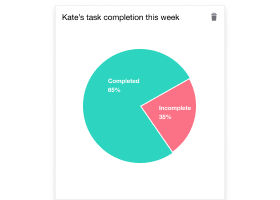
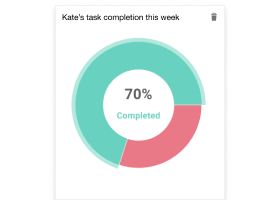
fix(web-client): making dashboard pie chart readable
making the dashboard pie chart more readable

re #78

Changed region(s): [[0.2286, 0.18, 0.7429, 0.84]]

diff --git a/web-client/src/shared/components/Dashboard/widgets/MyTasksCompletionChart.tsx b/web-client/src/shared/components/Dashboard/widgets/MyTasksCompletionChart.tsx
@@ -1,6 +1,6 @@
 import React from "react";
 
-import { PieChart, Pie, Cell, ResponsiveContainer, PieLabelRenderProps } from "recharts";
+import { PieChart, Pie, Cell, ResponsiveContainer, PieLabelRenderProps, Sector } from "recharts";
 
 import Box from "@mui/material/Box";
 import Typography from "@mui/material/Typography";
@@ -12,32 +12,85 @@ import { MIN_DASHBOARD_WIDGET_HEIGHT } from "../../../../modules/DashboardScreen
 import { PieChartStatistics } from "../../../interfaces/Statistics.interfaces";
 import { parseDynamicParameters } from "../widget.helpers";
 
-const RADIAN = Math.PI / 180;
-const renderCustomizedLabel = (props: PieLabelRenderProps) => {
-  const { cx, cy, midAngle, innerRadius, outerRadius, percent } = props;
+// const RADIAN = Math.PI / 180;
+// const renderCustomizedLabel = (props: PieLabelRenderProps) => {
+//   const { cx, cy, midAngle, innerRadius, outerRadius, percent } = props;
+//   console.log(props);
 
-  if (!Number(percent)) {
-    return <React.Fragment></React.Fragment>;
-  }
+//   if (!Number(percent)) {
+//     return <React.Fragment></React.Fragment>;
+//   }
 
-  const radius = (innerRadius as number) + ((outerRadius as number) - (innerRadius as number)) * 0.5;
+//   const radius = (innerRadius as number) + ((outerRadius as number) - (innerRadius as number)) * 0.5;
 
-  const x = (cx as number) + (radius as number) * Math.cos(-midAngle * RADIAN);
-  const y = (cy as number) + (radius as number) * Math.sin(-midAngle * RADIAN);
+//   const x = (cx as number) + (radius as number) * Math.cos(-midAngle * RADIAN);
+//   const y = (cy as number) + (radius as number) * Math.sin(-midAngle * RADIAN);
+
+//   return (
+//     <Typography
+//       component="text"
+//       x={x}
+//       y={y}
+//       fill={"white"}
+//       fontSize={15}
+//       textAnchor="middle"
+//       dominantBaseline="central"
+//       fontWeight={500}
+//     >
+//       {props?.name} {Number(Number(percent) * 100).toFixed(1)}%
+//     </Typography>
+//   );
+// };
+
+const renderActiveShape = (props: any) => {
+  const { cx, cy, innerRadius, outerRadius, startAngle, endAngle, fill, payload, percent } = props;
 
   return (
-    <Typography
-      component="text"
-      x={x}
-      y={y}
-      fill={"white"}
-      fontSize={15}
-      textAnchor="middle"
-      dominantBaseline="central"
-      fontWeight={500}
-    >
-      {props?.name} {Number(Number(percent) * 100).toFixed(1)}%
-    </Typography>
+    <g>
+      <Typography
+        component="text"
+        x={cx}
+        y={cy - 20}
+        dy={8}
+        textAnchor="middle"
+        fontSize={30}
+        fontWeight={900}
+        fill="#5F5F5F"
+      >
+        {Number(Number(percent ?? 0) * 100).toFixed(0)}%
+      </Typography>
+      <Typography
+        component="text"
+        x={cx}
+        y={cy + 20}
+        dy={8}
+        textAnchor="middle"
+        fontSize={18}
+        fontWeight={600}
+        fill={fill}
+      >
+        {payload.name}
+      </Typography>
+      <Sector
+        cx={cx}
+        cy={cy}
+        innerRadius={innerRadius}
+        outerRadius={outerRadius}
+        startAngle={startAngle}
+        endAngle={endAngle}
+        fill={fill}
+      />
+      <Sector
+        cx={cx}
+        cy={cy}
+        startAngle={startAngle}
+        endAngle={endAngle}
+        innerRadius={outerRadius}
+        outerRadius={outerRadius + 8}
+        fill={fill}
+        fillOpacity="0.5"
+      />
+    </g>
   );
 };
 
@@ -49,6 +102,7 @@ const PIE_CHART_COLORS = ["#2DD4BF", "#FB7185", indigo[300], deepOrange[300]];
 
 const MyTasksCompletionChart = (props: IProps) => {
   const [data, setData] = React.useState<PieChartStatistics>([]);
+  const [activeIndex, setActiveIndex] = React.useState<number | undefined>(0);
 
   React.useEffect(() => {
     const params = new URLSearchParams();
@@ -89,15 +143,23 @@ const MyTasksCompletionChart = (props: IProps) => {
           height={props.widget.widgetHeight * MIN_DASHBOARD_WIDGET_HEIGHT}
         >
           <Pie
+            activeIndex={activeIndex}
+            activeShape={renderActiveShape}
             data={data}
             cx="50%"
             cy="50%"
             labelLine={false}
-            label={renderCustomizedLabel}
+            // label={renderCustomizedLabel}
             fill="#8884d8"
-            dataKey="value"
             nameKey="name"
-            innerRadius={2}
+            dataKey="value"
+            innerRadius="45%"
+            onMouseEnter={(_, idx) => {
+              setActiveIndex(idx);
+            }}
+            onMouseLeave={() => {
+              setActiveIndex(undefined);
+            }}
           >
             {data.map((_, index) => (
               <Cell key={`cell-${index}`} fill={PIE_CHART_COLORS[index % PIE_CHART_COLORS.length] as any} />

diff --git a/web-client/src/modules/DashboardScreen/DashboardPage.tsx b/web-client/src/modules/DashboardScreen/DashboardPage.tsx
@@ -306,7 +306,8 @@ const DashboardPage = () => {
                   isResizable={canWriteToDashboard}
                   isDraggable={canWriteToDashboard}
                   verticalCompact={true}
-                  compactType={isOnMobile ? "vertical" : "horizontal"}
+                  // compactType={isOnMobile ? "vertical" : "horizontal"}
+                  compactType="vertical"
                   layouts={layouts ?? undefined}
                   breakpoints={{ lg: 1200, md: 996, sm: 768, xs: 480, xxs: 0 }}
                   preventCollision={false}
